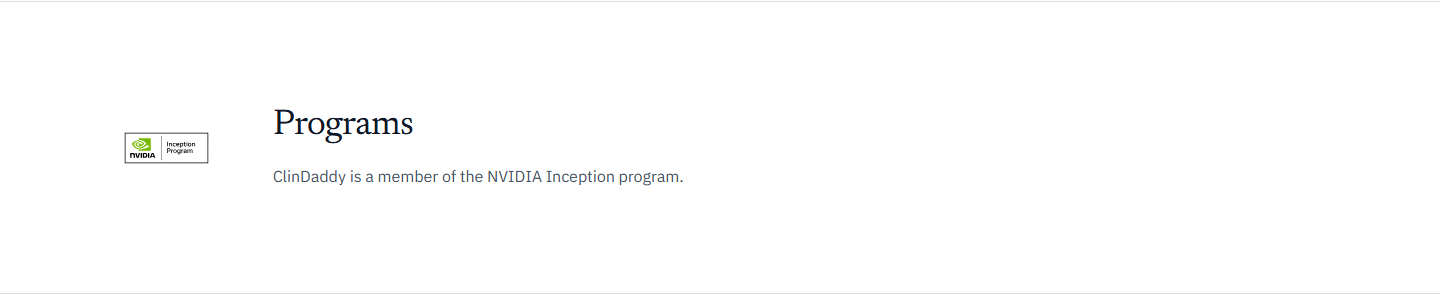
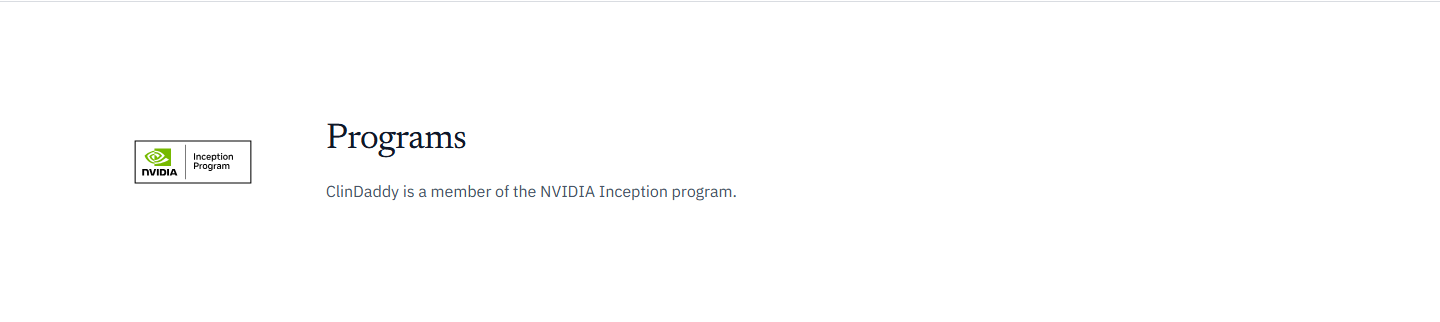
Increase NVIDIA badge size and center the recognition strip

Changed region(s): [[0.0, 0.9796, 1.0, 1.0], [0.0625, 0.3673, 0.3438, 0.5816], [0.1875, 0.551, 0.5312, 0.6429]]

diff --git a/app/page.tsx b/app/page.tsx
@@ -502,13 +502,13 @@ export default function HomePage() {
       {/* ---------------------------------------------------------------- */}
       <section id="recognition" className="border-t border-rule bg-paper">
         <Container>
-          <div className="flex flex-col gap-5 py-8 sm:flex-row sm:items-center sm:justify-between sm:gap-10">
-            <p className="text-sm font-medium text-text-3">Recognition</p>
-            <div className="flex flex-wrap items-center gap-4">
-              <span className="inline-flex p-4 lg:p-5">
-                <NvidiaInceptionBadge variant="light" />
-              </span>
-              <p className="max-w-[38ch] text-sm leading-[1.5] text-text-2">
+          <div className="flex flex-col items-center gap-5 py-8 text-center sm:flex-row sm:justify-center sm:gap-8 sm:py-10 sm:text-left">
+            <span className="inline-flex p-6 lg:p-7">
+              <NvidiaInceptionBadge variant="light" />
+            </span>
+            <div>
+              <p className="text-sm font-medium text-text-3">Recognition</p>
+              <p className="mt-1 max-w-[38ch] text-base leading-[1.5] text-text-2">
                 ClinDaddy is a member of the NVIDIA Inception program.
               </p>
             </div>

diff --git a/app/trust/page.tsx b/app/trust/page.tsx
@@ -193,7 +193,7 @@ export default function TrustPage() {
       {/* Programs */}
       <Section tone="surface" bordered id="programs">
         <div className="flex flex-col gap-8 sm:flex-row sm:items-center sm:gap-10">
-          <span className="inline-flex shrink-0 p-4 lg:p-5">
+          <span className="inline-flex shrink-0 p-6 lg:p-7">
             <NvidiaInceptionBadge variant="light" />
           </span>
           <div>

diff --git a/components/brand/nvidia-inception-badge.tsx b/components/brand/nvidia-inception-badge.tsx
@@ -29,7 +29,7 @@ export function NvidiaInceptionBadge({
       width={500}
       height={216}
       unoptimized
-      className={cn("h-8 w-auto lg:h-10", className)}
+      className={cn("h-11 w-auto lg:h-14", className)}
     />
   );
 }
